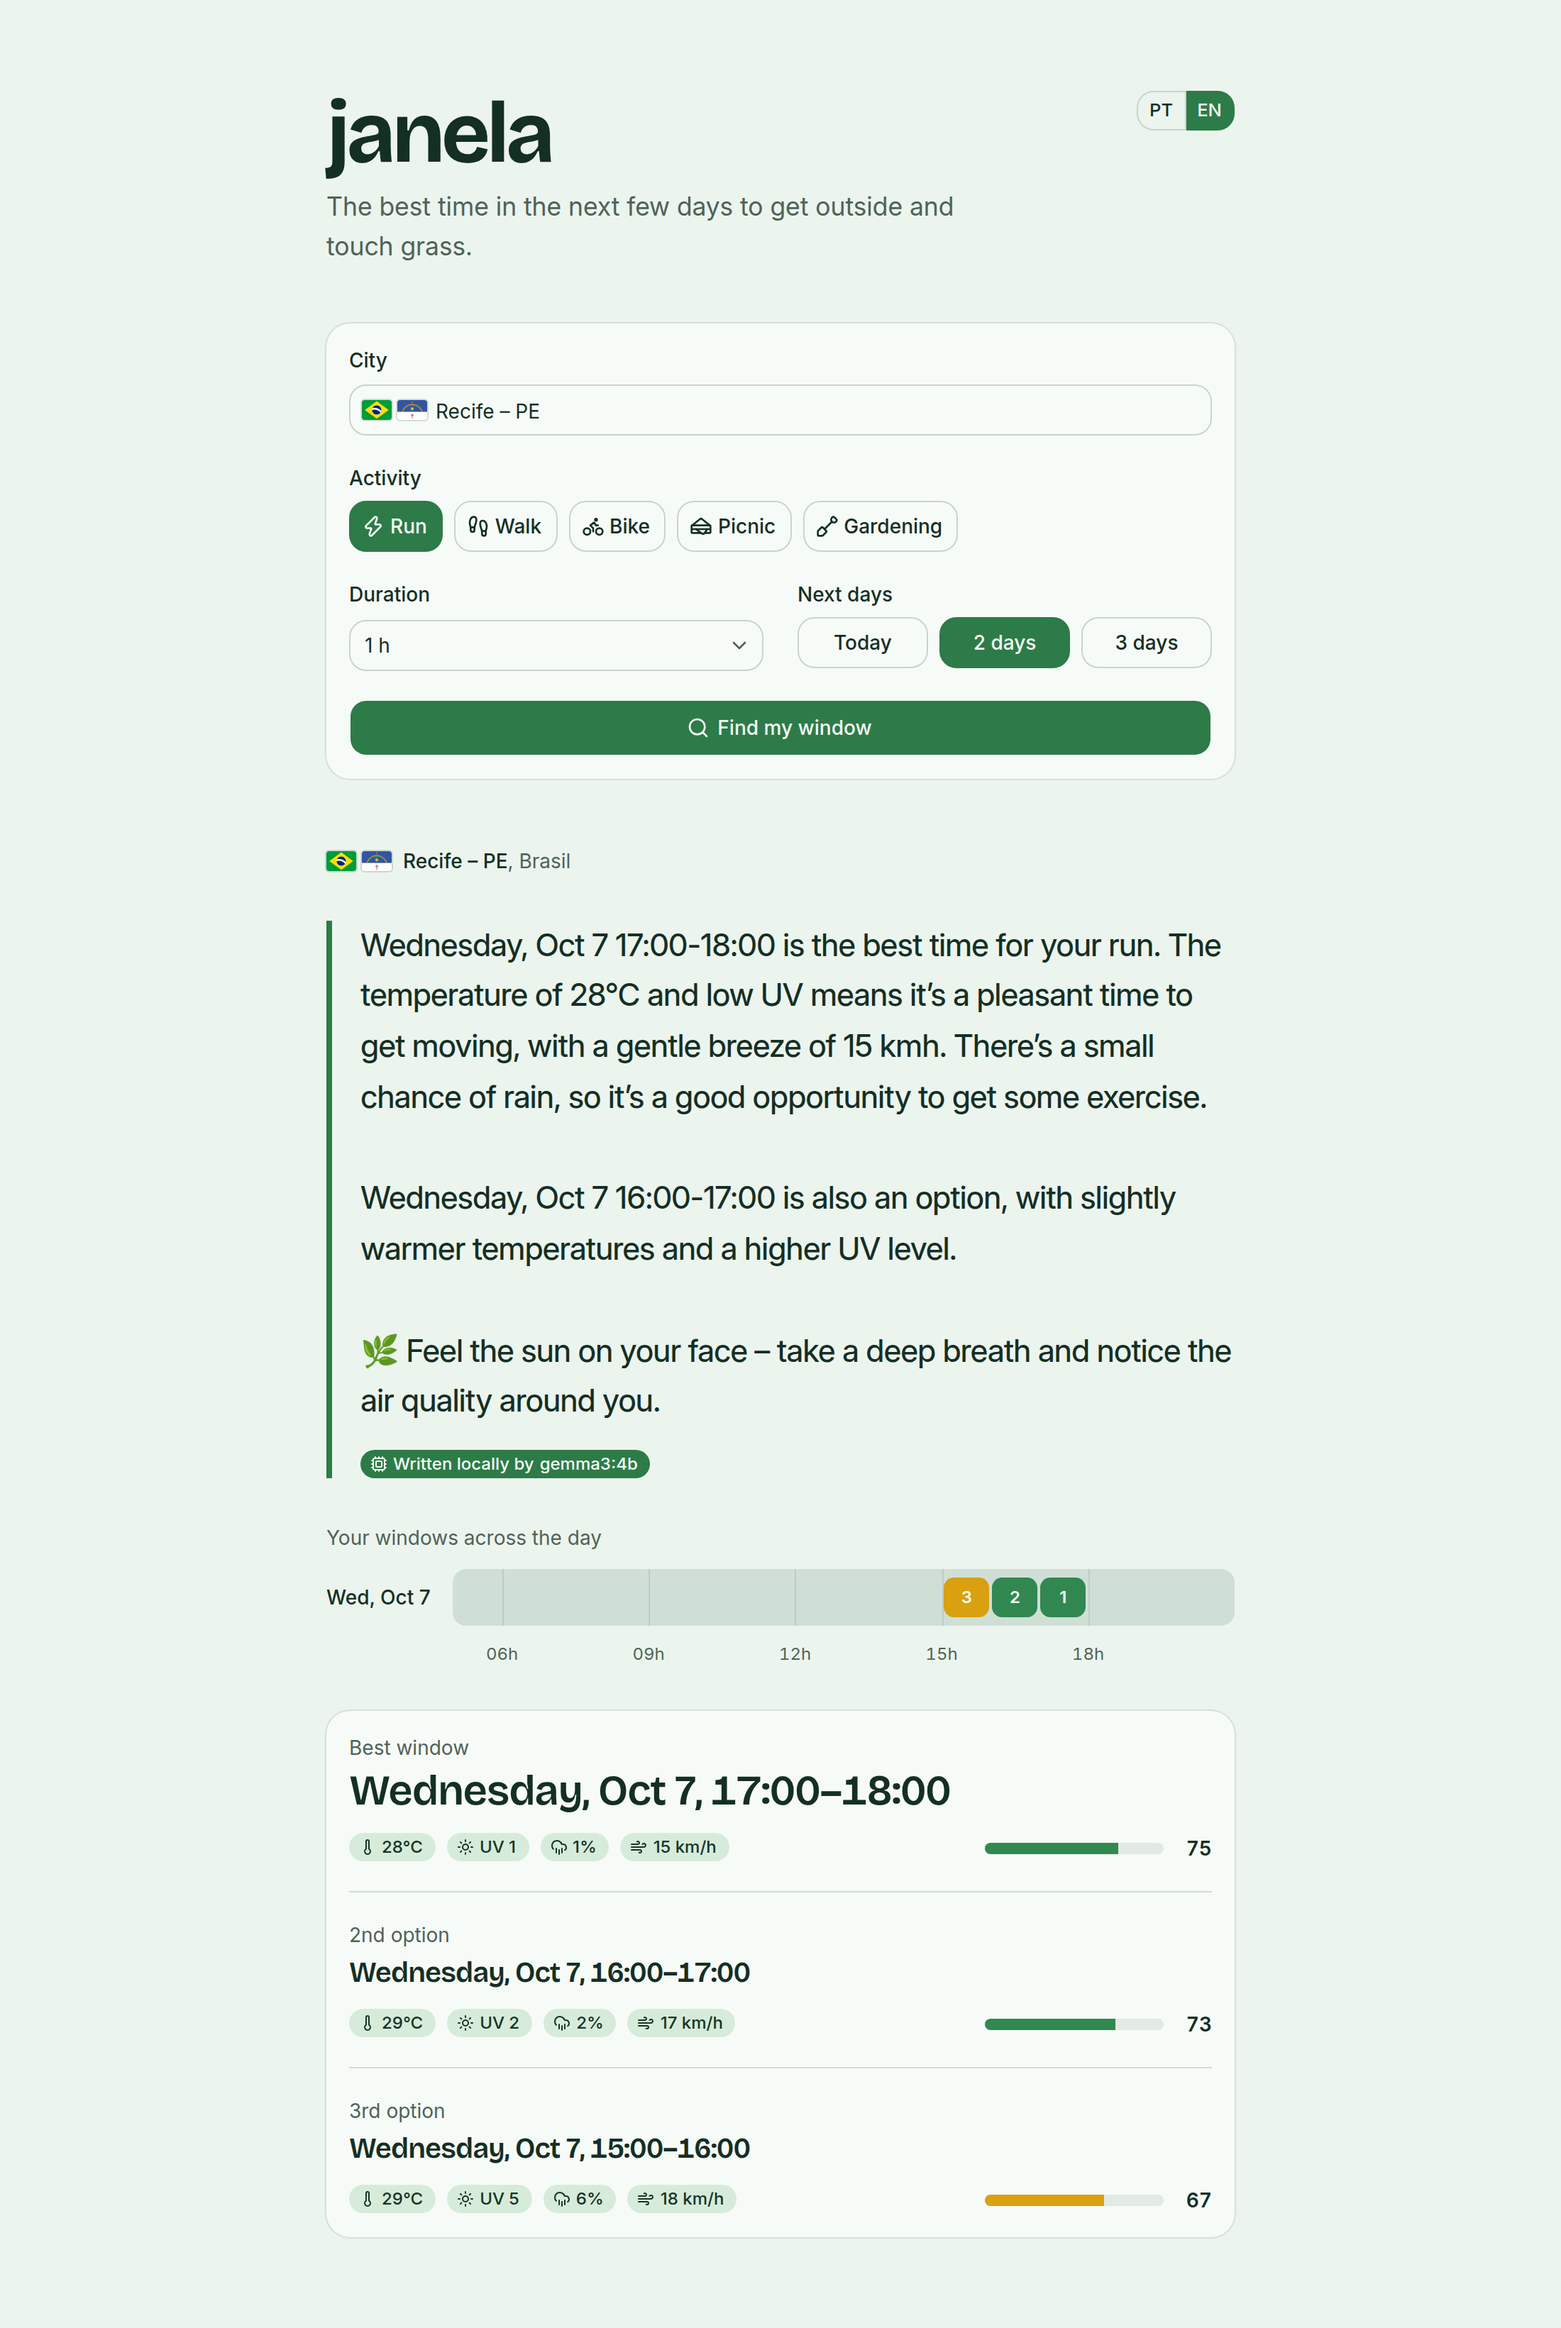
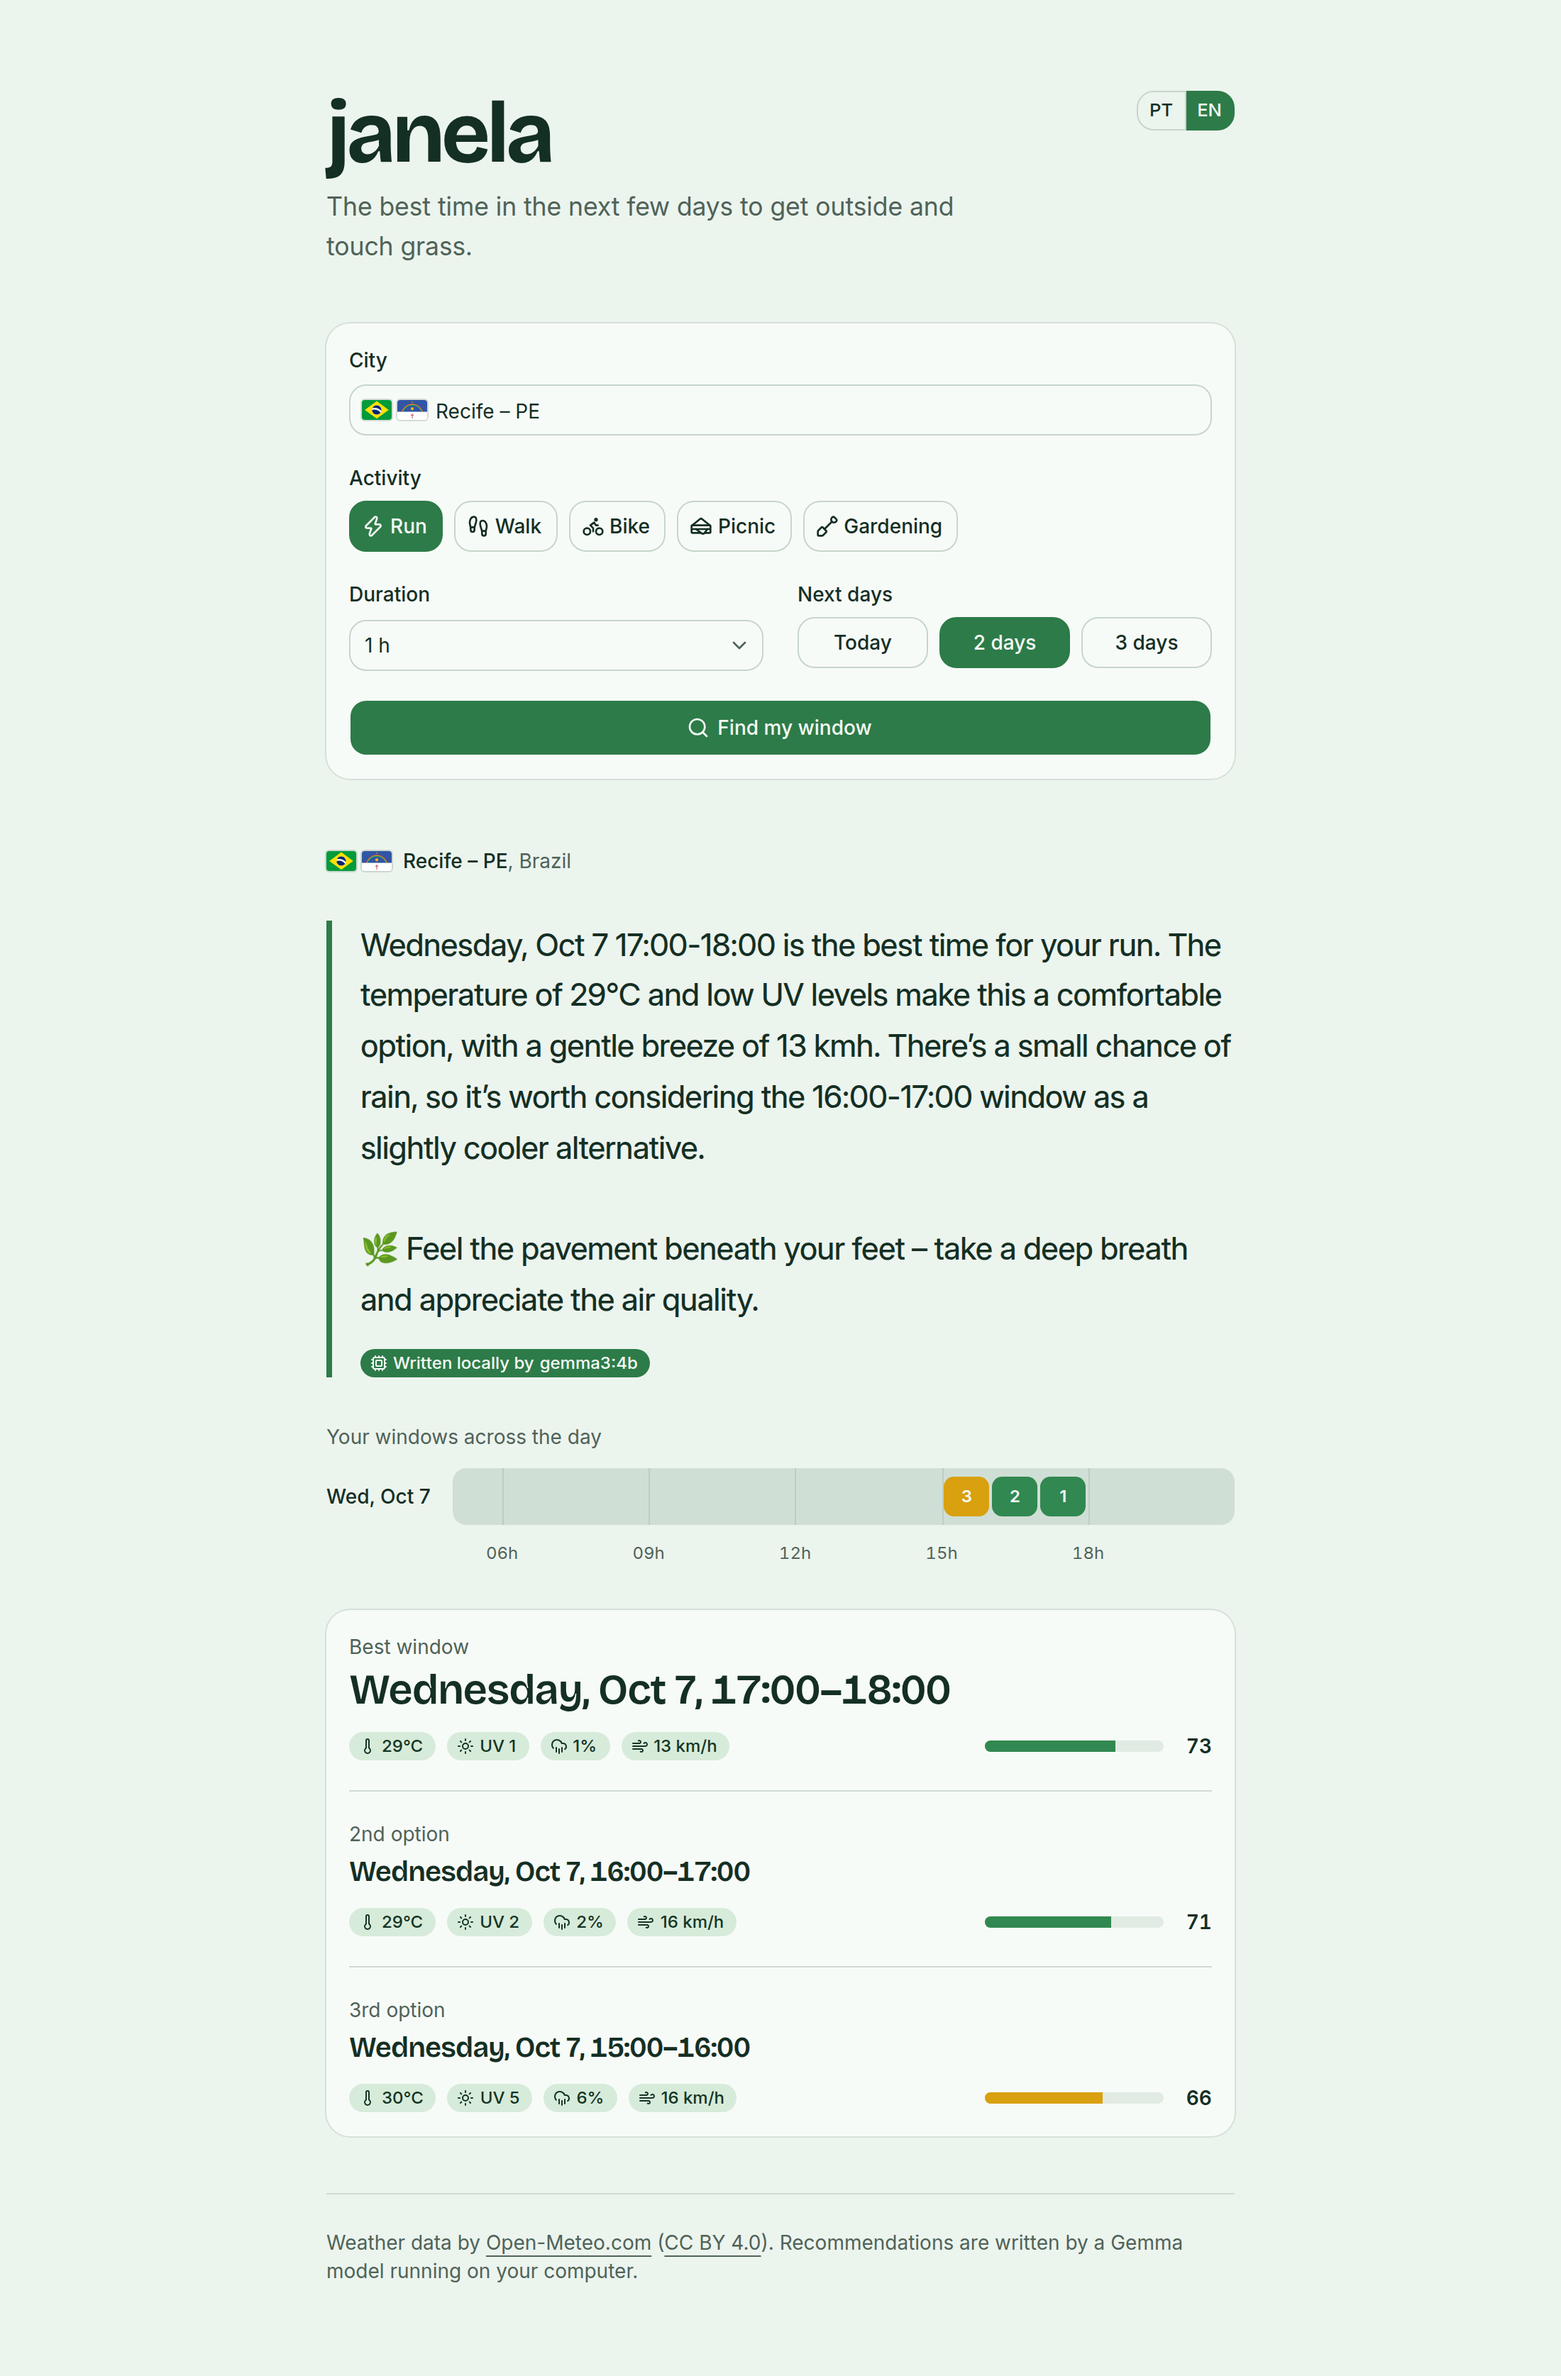
docs: update frontend guide and screenshots after the review refactor

diff --git a/frontend/README.md b/frontend/README.md
@@ -6,6 +6,7 @@ state, and the conventions to keep when you add something.
 ```bash
 pnpm install
 pnpm dev      # http://localhost:5173 — expects the backend on http://localhost:8080 (override with VITE_API_URL)
+pnpm test     # Vitest, for the pure modules in lib/
 pnpm lint
 pnpm build    # type-checks, then bundles
 ```
@@ -15,34 +16,38 @@ pnpm build    # type-checks, then bundles
 ```
 src/
 ├── main.tsx              providers: TanStack Query (no retries, 10-min stale time), theme
-├── App.tsx               page shell, language, the windows query, URL sync
-├── lib/                  no React: API client, formatting, place labels, i18n strings, URL state
-├── hooks/                small reusable React hooks
+├── App.tsx               page shell, language, URL sync, status line, footer
+├── lib/                  no React: API client, formatting, score tiers, place labels, i18n strings, URL state
+├── hooks/                useWindowsSearch, useI18n, useDebouncedValue
 ├── components/           Janela's components
 └── components/ui/        shadcn/ui sources (base-nova style, Base UI primitives) — vendored, edit sparingly
 ```
 
 Dependencies point one way: `components/ui` ← `components` ← `App`, and everything may use `lib`. `lib` never
-imports React or components, so formatting and labels stay testable on their own.
+imports React components, so formatting and labels stay testable on their own (`*.test.ts` next to each
+module).
 
 | Module | Owns |
 |--------|------|
-| `lib/api.ts` | Types mirroring the backend (`WindowsResponse`, `City`, `Place`), `fetchWindows`, `fetchCities`, `ApiError` (status + `fields` from problem details) |
-| `lib/format.ts` | Day and time formatting from the API's local `yyyy-MM-ddTHH:mm` strings (never shifted to the browser's time zone), score tiers |
+| `lib/api.ts` | Types mirroring the backend (`WindowsResponse`, `SearchValues`, `City`, `Place`), `fetchWindows` and `fetchCities` against `/api/v1`, `ApiError` (status + `fields` from problem details) |
+| `lib/format.ts` | Day and time formatting from the API's local `yyyy-MM-ddTHH:mm` strings (never shifted to the browser's time zone) |
+| `lib/score.ts` | Score tiers and their `score-*` color classes |
 | `lib/place.ts` | "Itobi – SP" labels, Brazilian state codes, flag URLs (country flags lazy-loaded from `country-flag-icons`, state flags in `public/flags/br`) |
 | `lib/i18n.ts` | All interface copy in `pt` and `en`; the narrative's language comes from the backend |
+| `I18nProvider` / `useI18n()` | The current `lang` and its copy `t`, for any component — no `t`/`lang` props |
+| `useWindowsSearch` | The windows query for a submitted search, plus 404/400 mapped to form-field problems |
 | `lib/url-state.ts` | Shareable `?city=&cityId=&activity=&duration=&days=&lang=` links |
 
 ## Components
 
 | Component | Role |
 |-----------|------|
-| `SearchForm` | Form state (city text, picked place, activity, duration, days) and client-side validation; calls `onSearch` |
+| `SearchForm` | Form state (city text, picked place, activity, duration, days), client-side validation, field problems turned into copy; calls `onSearch` |
 | `CityCombobox` | City field with debounced suggestions (`["cities", term, lang]` query); picking one pins its id |
 | `Results` | Chooses the state to show: loading, error, empty, no windows, or results |
 | `Narrative` | The model's recommendation and its "written by Gemma / template" badge |
 | `DayStrip` | Visual band of daylight hours with the windows cut out — decorative, `aria-hidden` |
-| `WindowList` | Ranked windows with metrics and score; the accessible source of the same data |
+| `WindowList` | Ranked windows (`ol`) with metrics and score; the accessible source of the same data |
 | `PlaceFlags` | Country and state flags next to a place name (decorative) |
 
 ## State
@@ -51,6 +56,7 @@ imports React or components, so formatting and labels stay testable on their own
   the language changes, since `lang` is part of the key); `["cities", term, lang]` backs the suggestions.
 - **Form state** stays inside `SearchForm`; it reports a finished search upward and nothing else.
 - **App state** is the submitted search and the language, mirrored to the URL and `localStorage` (language only).
+  The shared link is read once, inside `App`.
 - Errors map to places: 404 and 400-with-`fields` show inline on the field; 503 and network errors show an `Alert`.
 
 ## Conventions
@@ -68,9 +74,10 @@ imports React or components, so formatting and labels stay testable on their own
 
 ## Accessibility checklist
 
-- Landmarks: one `header`, one `main`; result blocks are `section`s with an `h2` (visually hidden when the
+- Landmarks: one `header`, one `main`, one `footer` (Open-Meteo's CC BY 4.0 attribution must stay there); result blocks are `section`s with an `h2` (visually hidden when the
   layout already makes the role obvious); each window is an `article` with an `h3`.
-- Results are announced through the polite live region around `Results`.
+- A visually hidden status line (`aria-live="polite"`) announces loading and "3 windows for Itobi – SP";
+  errors announce themselves (`Alert` and `FieldError` are `role="alert"`).
 - Every control has a visible label (`FieldLabel` or `FieldLegend`); errors use `data-invalid` + `aria-invalid`
   and focus moves to the city field when it is the problem.
 - Decorative visuals (`DayStrip`, flags, icons) are `aria-hidden`; the same information is in text nearby.
@@ -81,4 +88,5 @@ imports React or components, so formatting and labels stay testable on their own
 1. Check `components/ui` and the registry: `pnpm dlx shadcn@latest search -q <name>` / `add <name>`.
 2. Read the added source — it is ours now — and keep it close to upstream.
 3. Put display rules (labels, formatting) in `lib/`, not in the component.
-4. Add the copy for both languages, check both themes and a 390 px viewport, then `pnpm lint && pnpm build`.
+4. Read copy with `useI18n()`; add it for both languages.
+5. Check both themes and a 390 px viewport, then `pnpm test && pnpm lint && pnpm build`.

diff --git a/README.md b/README.md
@@ -104,7 +104,7 @@ The backend only accepts browser requests from `http://localhost:5173`
 
 ```bash
 cd backend && ./mvnw test          # scorer, use case, Open-Meteo clients, Gemma payload, controller
-cd frontend && pnpm lint && pnpm build
+cd frontend && pnpm test && pnpm lint && pnpm build
 ```
 
 ## API
